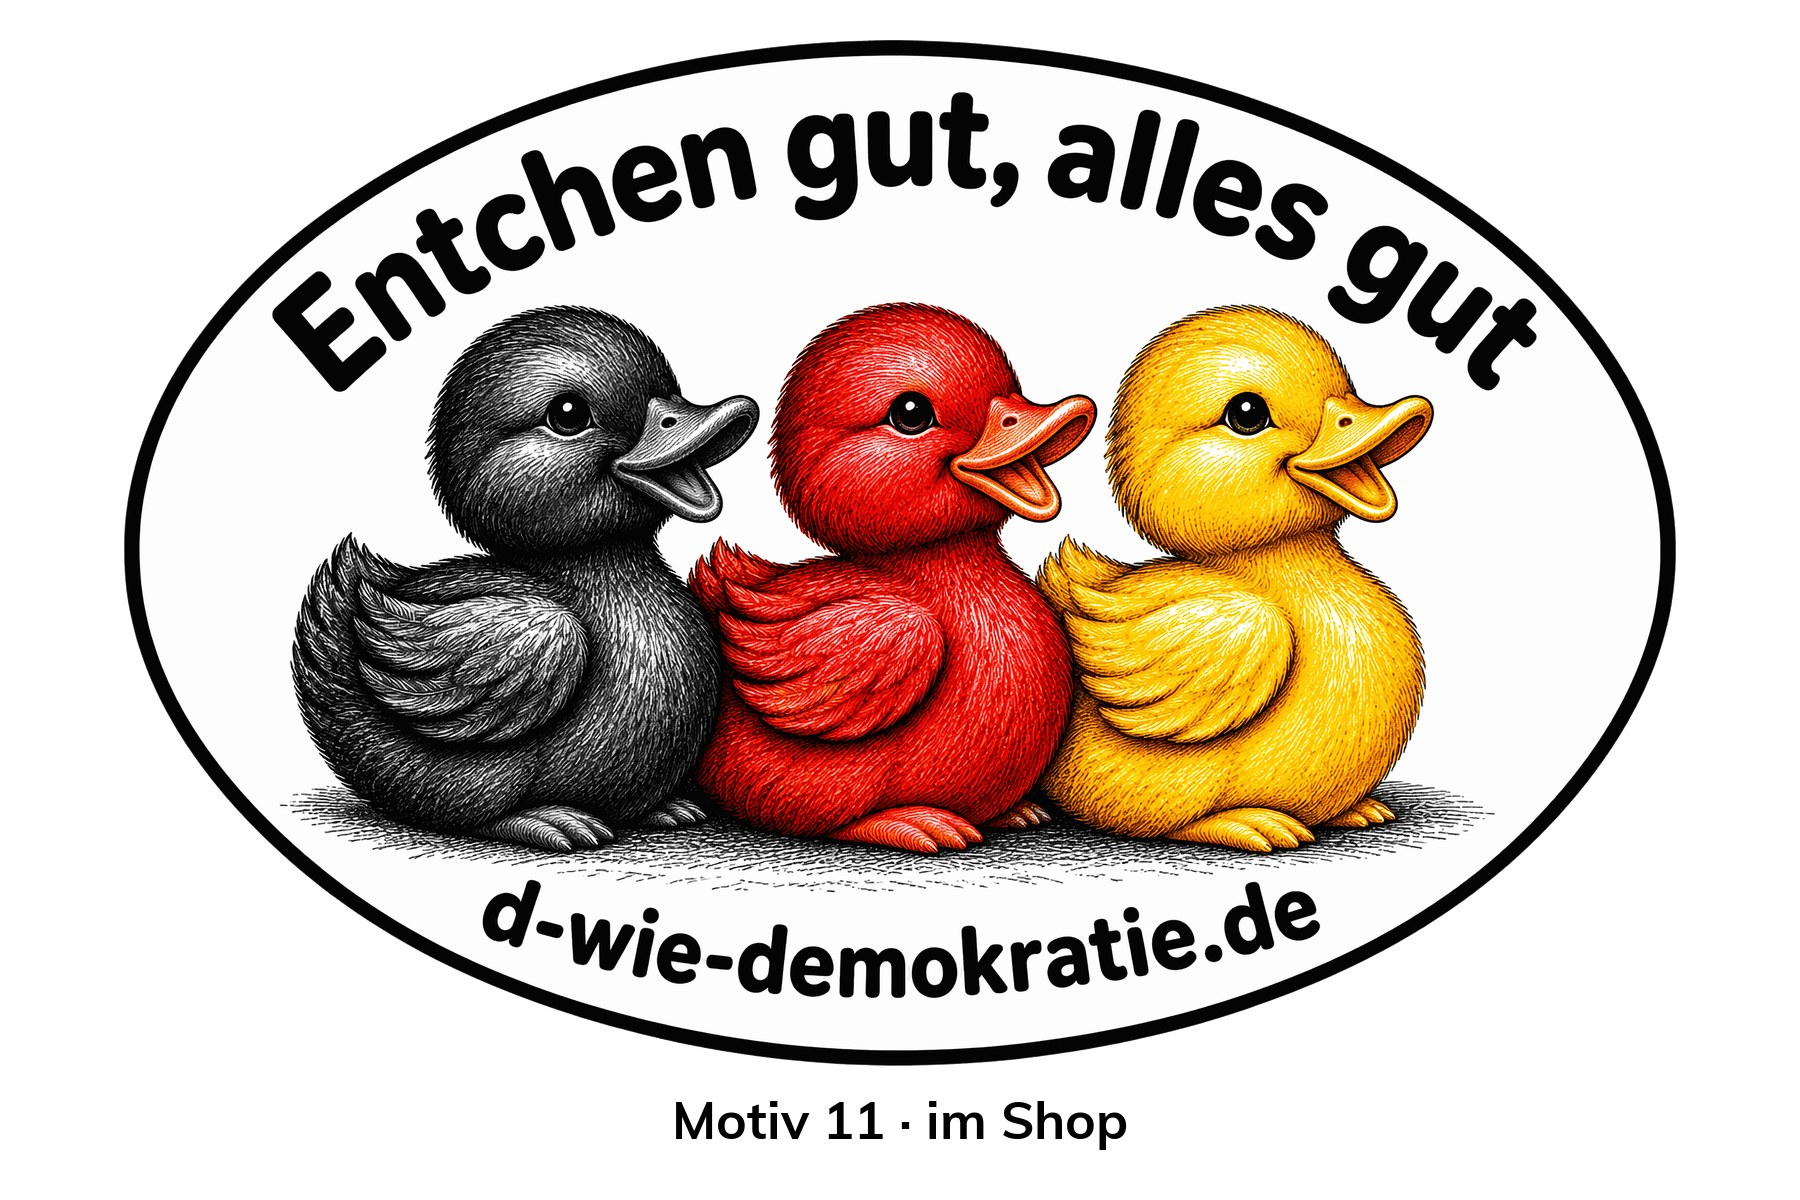
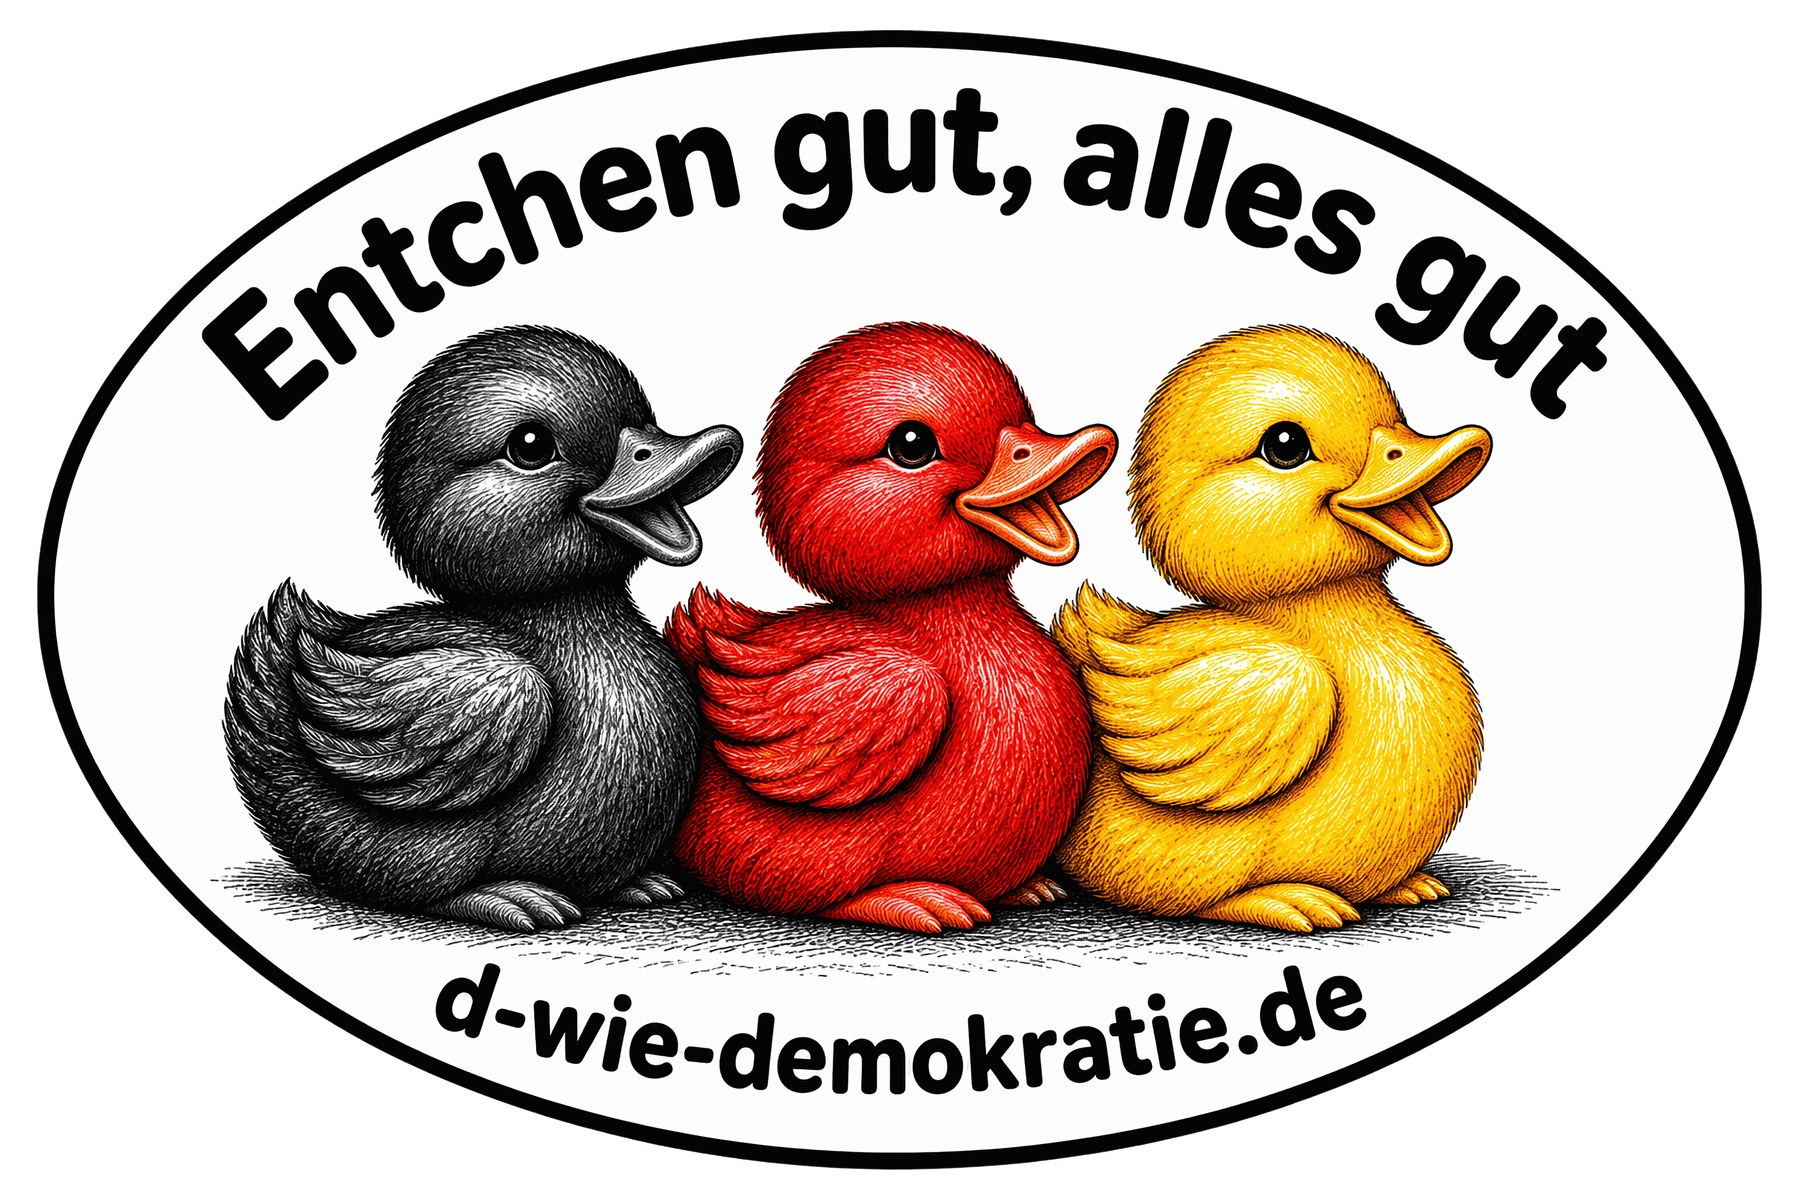
Startseite: Slider-Bilder ohne Text, Motiv größer; „Motiv N von M“ als Text unter dem Bild

diff --git a/scripts/slider-querformate.py b/scripts/slider-querformate.py
@@ -1,27 +1,18 @@
 # Baut die Querformate für den Slider der Startseite: src/assets/slider/motiv-<nr>.jpg (1800 × 1200),
-# Motiv so groß wie möglich auf Weiß, darunter „Motiv <nr> · im Shop“ (ohne Shop-Link nur „Motiv <nr>“).
+# Motiv so groß wie möglich auf Weiß, ohne Text (die Zeile darunter steht in src/pages/index.astro).
 # Aufruf im Projektordner: python3 scripts/slider-querformate.py
 import re, glob
-from PIL import Image, ImageDraw, ImageFont
-W,H=1800,1200
-src=open('src/data/motive.ts').read()
-mitShop=set(int(n) for n in re.findall(r"nr: (\d+),\n(?:(?!\n\t\t\{|nr:).)*?\n\t\tshop:",src,re.S))
-f2=ImageFont.truetype('/Library/Fonts/Muli-Bold.ttf',52)
-nummern=sorted(int(re.search(r'motiv-(\d+)\.png$',p).group(1)) for p in glob.glob('src/assets/motive/d-wie-demokratie-motiv-*.png') if re.search(r'motiv-\d+\.png$',p))
+from PIL import Image
+W, H, RAND = 1800, 1200, 30
+nummern = sorted(int(m.group(1)) for p in glob.glob('src/assets/motive/d-wie-demokratie-motiv-*.png')
+                 if (m := re.search(r'motiv-(\d+)\.png$', p)))
 for n in nummern:
-    im=Image.new('RGB',(W,H),(255,255,255))
-    a=Image.open(f'src/assets/motive/d-wie-demokratie-motiv-{n}.png').convert('RGBA')
-    a=a.crop(a.getchannel('A').point(lambda v:255 if v>8 else 0).getbbox())
-    t2=f'Motiv {n} · im Shop' if n in mitShop else f'Motiv {n}'
-    d=ImageDraw.Draw(im); b2=d.textbbox((0,0),t2,font=f2)
-    top,gap,bottom=40,35,50
-    oh=H-top-gap-(b2[3]-b2[1])-bottom
-    ow=round(oh*a.width/a.height)
-    if ow>W-80: ow=W-80; oh=round(ow*a.height/a.width)
-    a=a.resize((ow,oh),Image.LANCZOS)
-    y0=top+(H-top-gap-(b2[3]-b2[1])-bottom-oh)//2
-    im.paste(a,((W-ow)//2,y0),a)
-    y=y0+oh+gap
-    d.text(((W-(b2[2]-b2[0]))//2-b2[0],y-b2[1]),t2,font=f2,fill=(0,0,0))
-    im.save(f'src/assets/slider/motiv-{n}.jpg',quality=88)
-    print(n,t2,ow,oh)
+    im = Image.new('RGB', (W, H), (255, 255, 255))
+    a = Image.open(f'src/assets/motive/d-wie-demokratie-motiv-{n}.png').convert('RGBA')
+    a = a.crop(a.getchannel('A').point(lambda v: 255 if v > 8 else 0).getbbox())
+    s = min((W - 2 * RAND) / a.width, (H - 2 * RAND) / a.height)
+    ow, oh = round(a.width * s), round(a.height * s)
+    a = a.resize((ow, oh), Image.LANCZOS)
+    im.paste(a, ((W - ow) // 2, (H - oh) // 2), a)
+    im.save(f'src/assets/slider/motiv-{n}.jpg', quality=88)
+    print(n, ow, oh)

diff --git a/CLAUDE.md b/CLAUDE.md
@@ -23,7 +23,7 @@ Push to `main` triggers GitHub Actions (`.github/workflows/deploy.yml`), which b
 ## Architecture
 
 - `src/layouts/Layout.astro`: shared `<head>` (meta, Open Graph, Umami script), sticky header with black-red-gold stripe and tab navigation, footer links. Global CSS variables live here. Also holds the tab order (`reiter`) used for swiping between tabs on mobile and for the slide animation (native cross-document View Transitions, only on touch devices); a new tab must be added there as well as in the nav. The ☰ menu at the right of the header lists all pages (array `menue`, plus Impressum/Datenschutz in `menueKlein`); a new page without its own tab only goes there, and such a page gets its own red-underlined tab for the current page (`aktuell`): on phones it replaces „Motive“ (short name `handy`, e.g. „Einreichen“, „Geschichte“), from 700 px it sits after „Motive“ (name `kurz`, e.g. „Flaggengeschichte“). Tabs since 2026-11-18: logo (start), Fragen, Verbündete, Motive; „Mitmachen“ and „Unterstützen“ are only in the ☰ menu. These tabs are not part of `reiter`/swiping. Pages not in the menu (Statistik) mark the ☰ with the red bar instead. Header widths are tuned so everything fits from 320 px; re-measure after changing tab names.
-- `src/pages/index.astro`: landing page: photo slider at the top (crossfade every few seconds, dots below stop it; `bilder` array at the top, files in `src/assets/slider/`, new ones 1800 × 1200 px JPEG named `motiv-<nr>-<was>.jpg`; each photo links to `/motive/#motiv-<nr>` of the motif it shows; since 2026-11-21 a mix of two AI photos and three motif slides (`07-motiv-7.jpg` etc., since 2026-11-22 motif as large as possible on white with „Motiv <nr> · im Shop“ below, built from the print PNGs with `scripts/slider-querformate.py`, no AI label); the AI photos are to be replaced by real photos of shirts; the AI photos carry the visible "KI-generiert" note (Art. 50 AI Act, must stay visible, not behind a click) for entries with `foto: true`), then visible h1 „Wir zeigen Flagge“, the values with links to Art. 1–5 GG, a box styled as the flag (black-red-gold stripes, with the 1990 Reichstag photo as a grey watermark; its credit sits below the box) that rotates quotes (array `zitate` at the top: Klopp, Steinmeier …; each with an `id` such as `zitat-aigner`, so `/#zitat-aigner` shows that quote and stops the rotation; each with a button to the video or speech, only linked, not embedded; Klopp's video also linked in FAQ `#farben`), then a preview of all motifs (thumbnails of the first version, each linking to `/motive/#motiv-<nr>`; later only the newest). Old anchors `/#motiv-<nr>`, `/#motive`, `/#herunterladen` and `/#shop` are forwarded to `/motive/` by an inline script.
+- `src/pages/index.astro`: landing page: photo slider at the top (crossfade every few seconds, dots below stop it; `bilder` array at the top, files in `src/assets/slider/`, new ones 1800 × 1200 px JPEG named `motiv-<nr>-<was>.jpg`; each photo links to `/motive/#motiv-<nr>` of the motif it shows; since 2026-11-21 a mix of two AI photos and three motif slides (`07-motiv-7.jpg` etc., since 2026-11-22 motif as large as possible on white without text, built from the print PNGs with `scripts/slider-querformate.py`; the line below each image („Motiv <nr> von <anzahl>“) is HTML, field `text` in `bilder`, no AI label); the AI photos are to be replaced by real photos of shirts; the AI photos carry the visible "KI-generiert" note (Art. 50 AI Act, must stay visible, not behind a click) for entries with `foto: true`), then visible h1 „Wir zeigen Flagge“, the values with links to Art. 1–5 GG, a box styled as the flag (black-red-gold stripes, with the 1990 Reichstag photo as a grey watermark; its credit sits below the box) that rotates quotes (array `zitate` at the top: Klopp, Steinmeier …; each with an `id` such as `zitat-aigner`, so `/#zitat-aigner` shows that quote and stops the rotation; each with a button to the video or speech, only linked, not embedded; Klopp's video also linked in FAQ `#farben`), then a preview of all motifs (thumbnails of the first version, each linking to `/motive/#motiv-<nr>`; later only the newest). Old anchors `/#motiv-<nr>`, `/#motive`, `/#herunterladen` and `/#shop` are forwarded to `/motive/` by an inline script.
 - `src/pages/motive.astro`: tab „Motive“ (since 2026-11-18): intro (we want many motifs, from children, artists, designers …; link to „Motiv einreichen“), then two accordion questions (`<details>`, `#herunterladen` and `#shop` open them; download terms: print and share freely, don't alter; shop: Spreadshop by Spreadshirt (Leipzig) https://d-wie-demokratie.myspreadshop.de/, set up as Non-Profit-Shop (margin 0, customer pays Spreadshirt's base price), only organic-cotton textiles (mostly Stanley/Stella); Spreadshirt is the seller, 30-day return/exchange; linked from the question (button) and per motif or per version (`shop` in `liste` or in a `varianten` entry, `/all?mainDesignId=<id>`; switch `shopAktiv`), not embedded, so the site stays free of third-party cookies; biotshirt (YTWOO, Düsseldorf) was linked 2026-11-12 to 2026-11-18 and dropped because it accepts no returns (texts in commit 7918eb7); wording rule: never call products „GOTS-zertifiziert“, only say what the product pages state, e.g. „aus Bio-Baumwolle“) then the numbered motifs one under another (list `liste` in `src/data/motive.ts`, shared with the landing-page preview, each linkable via `/motive/#motiv-<nr>`), each with links to PNG, PDF and its shop search. Per motif: PNG `src/assets/motive/d-wie-demokratie-motiv-<nr>.png` (4000 px, transparent; thumbnail and download) and PDF `public/download/d-wie-demokratie-motiv-<nr>.pdf` (CMYK); a motif only shows once its PNG exists, a missing PDF or shop link just drops that link. Klaus keeps all motif files (PDF and PNG, same name) in `motive/` (gitignored working folder, a mirror of the published files) and exports there from Affinity; when he says so, Claude compares it with `src/assets/motive/` and `public/download/`, checks only new or changed files (size, transparency, sRGB, PDF/X-4, FOGRA39, exact CMYK values, no layers, no images) and copies them over. Numbers are only given to finished motifs (print PNG exists), in order of completion; drafts never get a number. A draft has `bald: true` and `id` (anchor `/motive/#<id>`, preview file `src/assets/motive/bald/<id>.png`, Klaus's AI draft with the white outside made transparent), shows without number below the finished motifs with a gold „Kommt bald“ badge instead of download/shop links, and is left out of the landing-page preview (none at the moment; the blackbird „Oh Ei, oh Ei!“ was dropped 2026-11-21 as too negative). When a draft is finished: delete `bald`/`id`, give it the next free `nr`, put the PNG in place. Motiv 3 „Gesunde Vielfalt“ (until 2026-11-21 „Vitamin D“, same fruit picture), 4 „Demokratie braucht Schutz“ 5 „Demokratie braucht Stacheln“ 6 „Demokratie braucht Schärfe“ 7 „Dackel lieben Demokratie“ 8 „Farbe bekennen!“ 9 „Alles wird Hut“ 10 „Keine Angst, Hasen!“ 11 „Entchen gut, alles gut“ (oval, 4000 × 2667) and 12 „Hinschauen. Zuhören. Mund aufmachen.“ (2026-11-21) are PNG only, with embedded metadata (title, creator D wie Demokratie, contact info@d-wie-demokratie.de, usage note „frei drucken und teilen, nicht verändern“ in the copyright field; no © claim since purely AI-generated images are generally not protected in Germany) (ChatGPT image, upscaled to 4000 px in Photoshop with „Details erhalten 2.0“, white outside made transparent, reduced to 256 colours to stay under Spreadshirt's 10 MB limit). A motif can have several versions (`varianten` in `liste`, each with an `endung`; `versteckt: true` hides a version while its files stay, used since 2026-11-18 for both `-farbig` versions such as `-qr-weiss` or `-dunkel`, a button name and a short text): files `d-wie-demokratie-motiv-<nr><endung>.png` (in `src/assets/motive/`) and `.pdf` (in `public/download/`), same name, only the extension differs; buttons switch between them (without JS all are listed), each version is previewed on the fabric it is meant for: light heather grey by default, `-farbig` („Für mittlere Untergründe“) mid blue, `-dunkel` („Für dunkle Untergründe“, with white outline) anthracite (map `stoff`), or an explicit `stoff` per version (Motiv 1 „Für alle Untergründe“, white oval: mid blue-grey). PDF links carry a content hash (`?v=`) so a replaced PDF is never served from browser cache. `public/download/d-wie-demokratie-oval.png/.pdf` are kept for old links.
 - `src/pages/haeufige-fragen.astro`: FAQ page, including who started the initiative; the biography with portrait (`src/assets/klaus-p-wolf.jpg`) is collapsed until the name is clicked (open without JavaScript); `/haeufige-fragen/#wer` (and `#lebenslauf`) open the question and the biography.
 - `src/pages/verbuendete.astro`: tab „Verbündete“ („Wir sind Verbündete“: people, organisations, firms that share our values), array `verbuendete` at the top, grouped by `art`; „Werte und Ziele“ in the lead opens the values (shared component `src/components/Werte.astro`, also used on the landing page) and our three goals, `#werte` opens it; each entry optionally with `zusatz`, `url`, `zitat` and `logo` (files in `src/assets/verbuendete/`). Only add entries after checking them and with written consent (published under Art. 6 (1) a GDPR, see section 4 of `datenschutz.astro`). While the array is empty a „ganz neu“ note shows. Sign-up by e-mail, Umami `email-verbuendete`. „Unterstützen“ has no tab anymore, only the ☰ menu.
